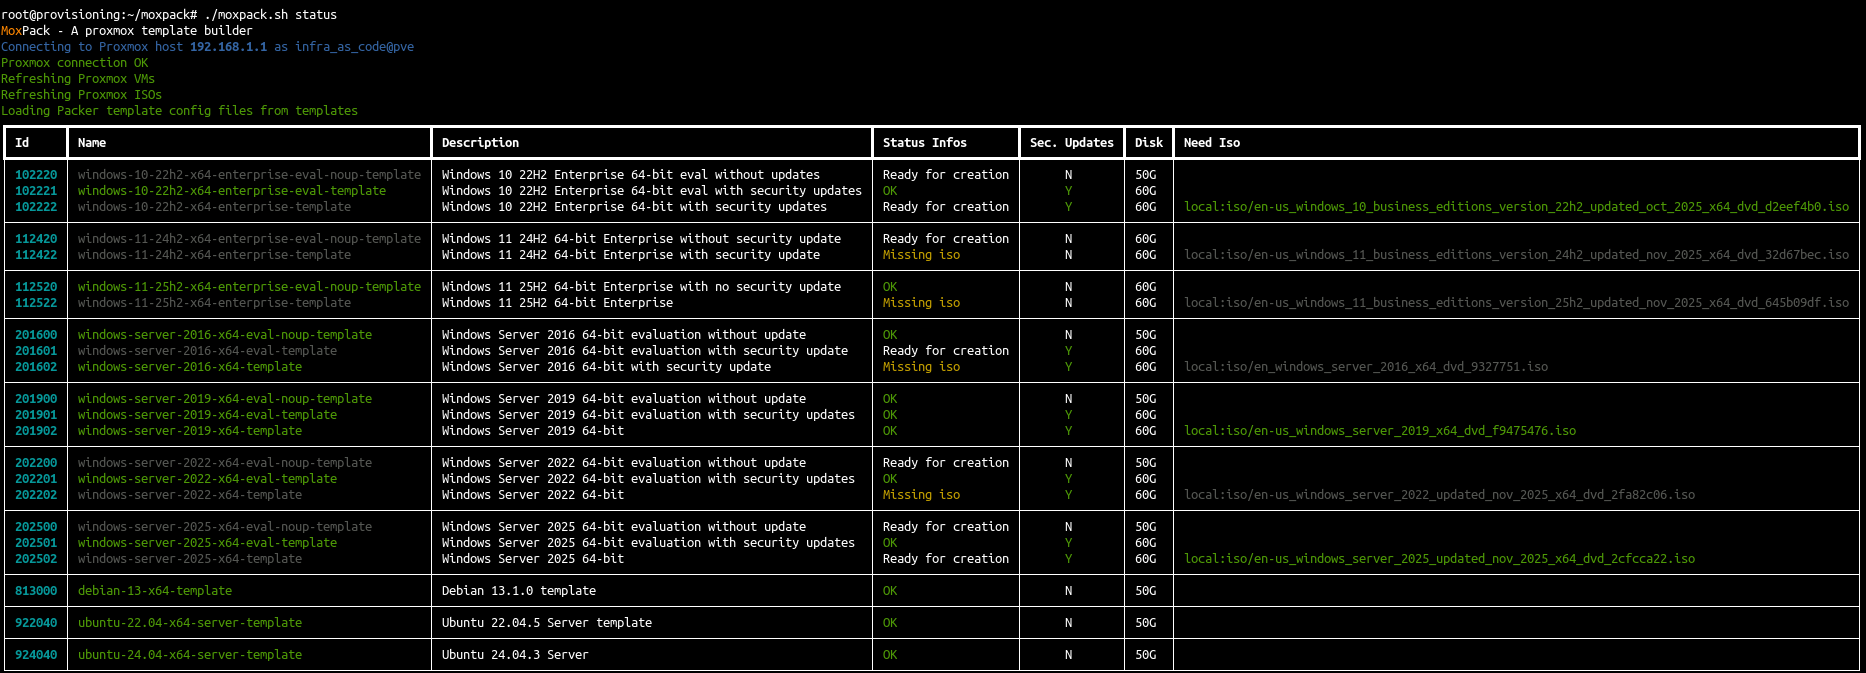
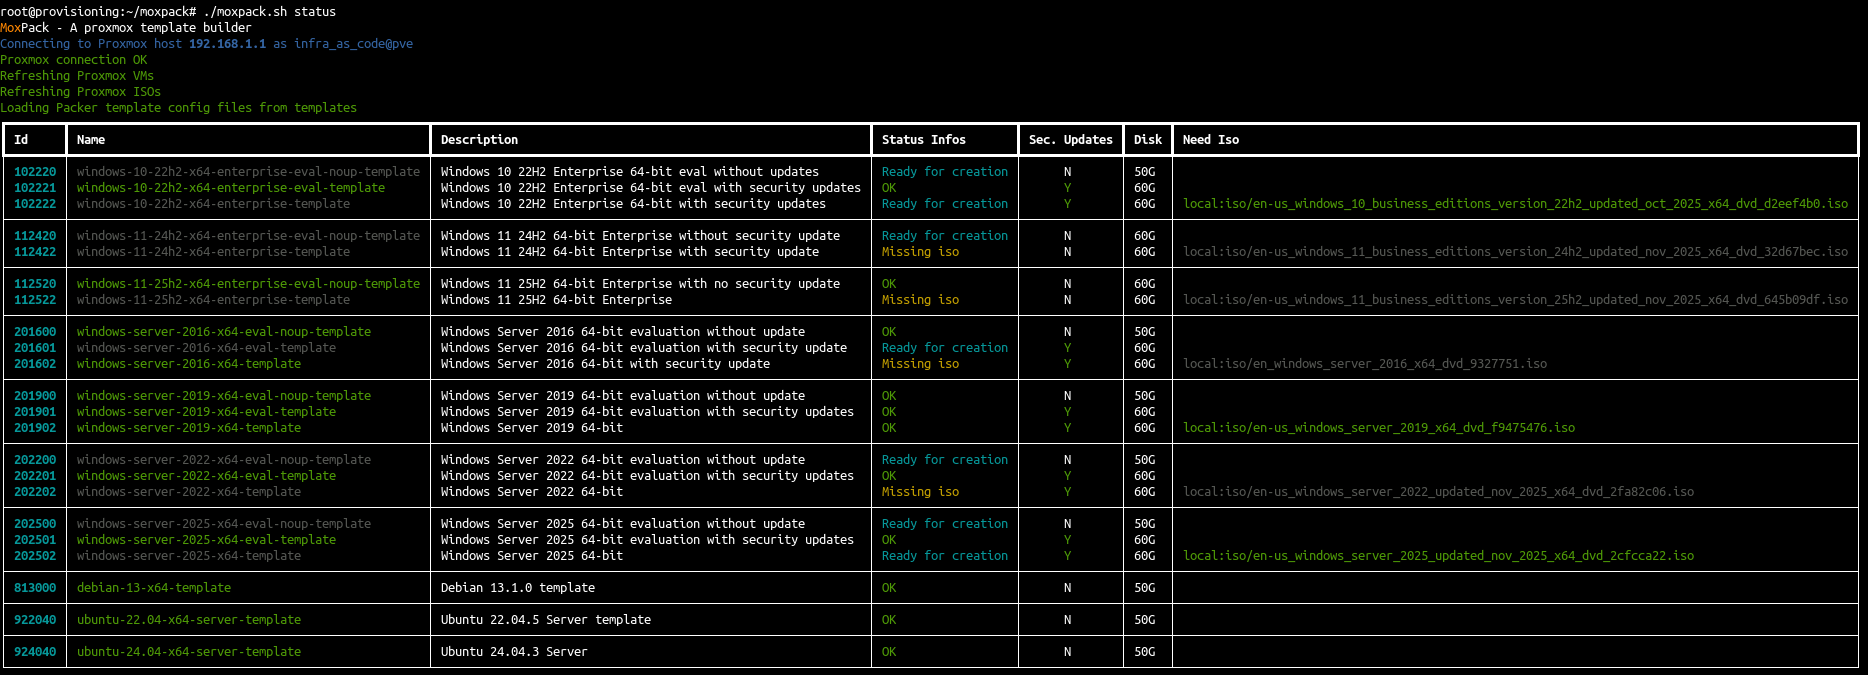
gui

Changed region(s): [[0.0, 0.0, 1.0, 0.9985]]

diff --git a/moxpack.py b/moxpack.py
@@ -201,7 +201,7 @@ class Moxpack:
             # status evaluation
             status = '[bright_black]ABSENT[/bright_black]'
             status_color = 'bright_black'
-            status_infos = 'Ready for creation'
+            status_infos = '[cyan]Ready for creation[/cyan]'
             for vm_id, vm in self.proxmox_vms.items():
                 if vm_id == template.vm_id:
                     if vm.get('is_template') == 0:
